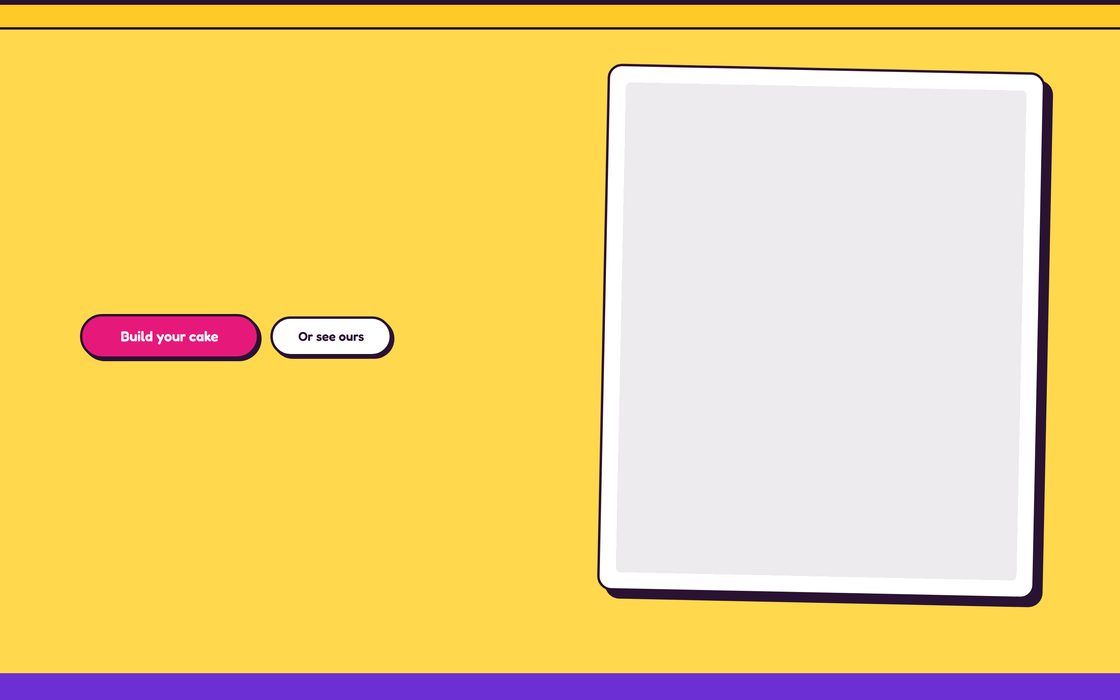
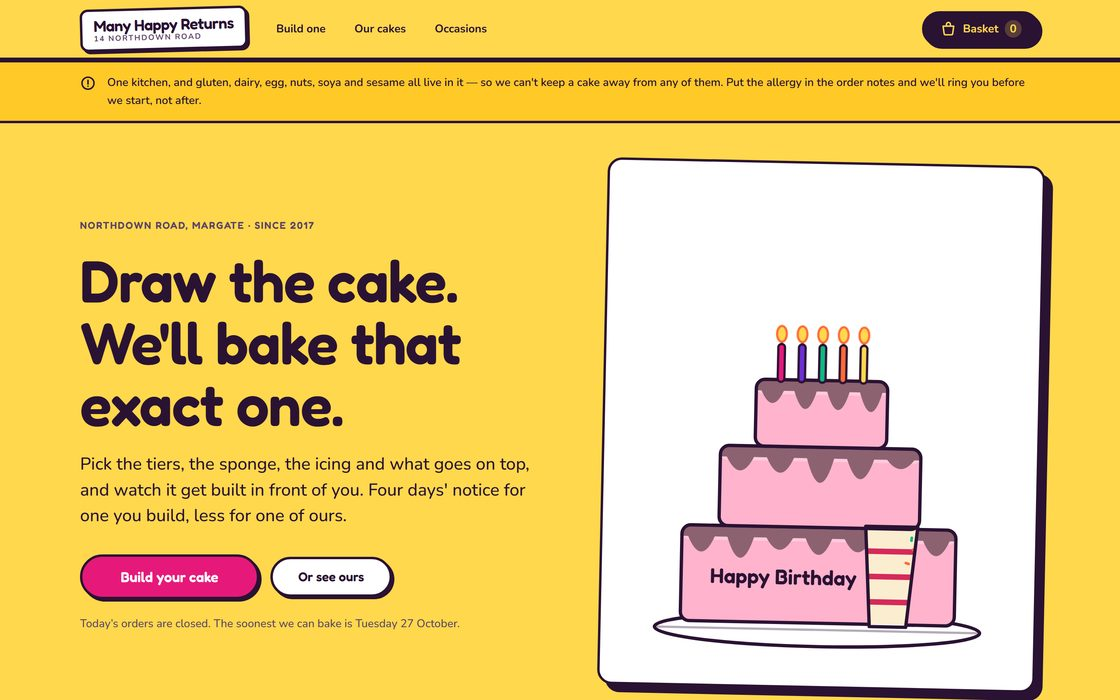
Fix Template 02, which I broke and shipped, and gate the cause
81692a9 put an apostrophe inside a single-quoted string — 'Pick a day and
we'll tell you straight away' — in 02's home.js. That is a syntax error, so
the module never ran: the page served a title, two buttons and nothing else,
and the gallery thumbnail was regenerated from it an hour later. Both went
live.

Nothing in the project could have caught it. The unit tests import the pure
commerce modules and never load a page script. build.mjs copies files; it
does not parse them. The deploy workflow checks that _page.js and card.js
*exist* in dist/, which is a check that they shipped, not that they run. The
one class of defect that silently empties a page was the one class with no
gate in front of it — and it is the class most likely to come from editing
copy inside code, which is exactly what I was doing.

tests/syntax.test.mjs now runs node --check over all 99 scripts under
templates/, shared/ and tools/. It parses and discards, so it executes
nothing and costs about seven seconds. Verified by reintroducing the exact
bug: the suite fails and names the file.

It also asserts the walk found more than fifty files, because a glob that
matches nothing passes every assertion beneath it.

Previews regenerated from the working page.

diff --git a/templates/02-playful-celebration/js/pages/home.js b/templates/02-playful-celebration/js/pages/home.js
@@ -78,7 +78,7 @@ $('[data-hero-cake]').innerHTML = cakeSVG(
    ------------------------------------------------------------------------- */
 const loc = merchant.locations[0];
 $('[data-promises]').innerHTML = [
-  [icons.cake, `${merchant.dailyCapacity} cakes a day`, 'Pick a day and we'll tell you straight away if it's gone.'],
+  [icons.cake, `${merchant.dailyCapacity} cakes a day`, "Pick a day and we'll tell you straight away if it's gone."],
   [icons.van, `Free over £${merchant.delivery.freeOver}`, `${merchant.delivery.zones.length} delivery areas, mornings only, driven flat.`],
   [icons.clock, `4 days' notice`, `Collect from ${loc.name}, or we bring it to you.`],
 ]
